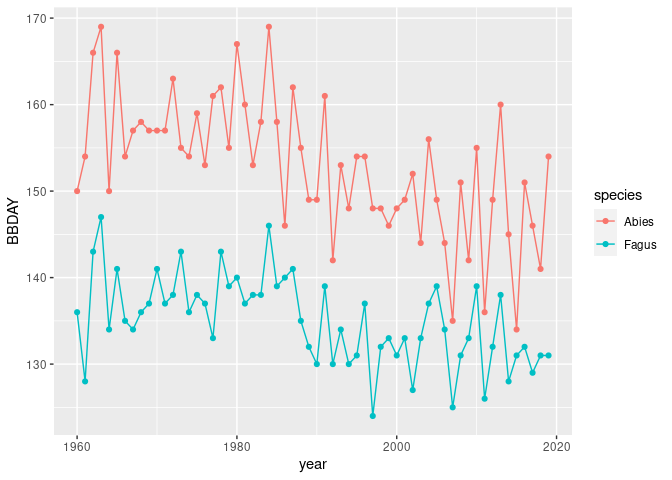
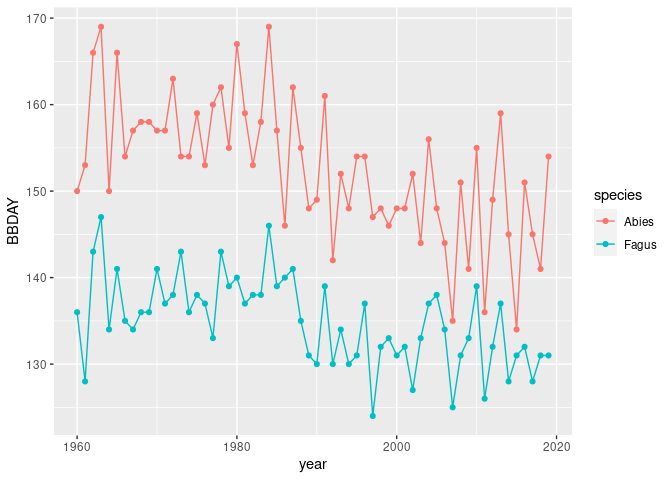
update DOY

diff --git a/README.md b/README.md
@@ -35,7 +35,8 @@ Model information
     current year *n* to simulate leaf budburst of the year *n*.
 -   `DOY`: day of the year, in the following format 1 to X, where if you
     have for example two years, X should go to 730 days. The current
-    function can not work with DOY going to 365 days only.
+    function can not work with DOY going to 365 days only. \*\*\* works
+    also with basic DOY from 1 to 365\*\*\*
 -   `meanTemp`: mean temperature for each days in T°C. For each function
     you need to specify date of the origin of your climate file.
 
@@ -71,8 +72,7 @@ We first test here unichill model for
 ``` r
 #select data for the site of interest (here named DVX5)
 dataDvx5= VtxClimate %>% filter(plot == "DVX5")
-#need to specify origin data of the data in this particular format
-originClimateData <- "1959-01-01"
+
 #need to specify submodel of unichill 
 submodelFagus <- "threshold"
 
@@ -81,7 +81,7 @@ submodelFagus <- "threshold"
 parametersFagus = c(-62, 37.3, 13, 0.08, 73.7, 13)
 
 #Run unichill model in plot DVX5 for fagus and then add plot and species name 
-phenoFagusDvx5 <-   Unichill_Chuine(parametersFagus, dataDvx5, originClimateData, submodelFagus) %>% 
+phenoFagusDvx5 <-   Unichill_Chuine(parametersFagus, dataDvx5, submodelFagus) %>% 
   mutate(species = "Fagus", site = "DVX5")
 ```
 
@@ -97,7 +97,7 @@ submodelAbies <- "unimodal"
 parametersAbies = c(-67, 9, 15.2, 0.24, 144.6, 1.61, -27.1, -4.95)
 
 #Run unichill model in plot DVX5 for Abies and add details with dplyr
-phenoAbiesDvx5 <-   Unichill_Chuine(parametersAbies, dataDvx5, originClimateData, submodelAbies) %>% 
+phenoAbiesDvx5 <-   Unichill_Chuine(parametersAbies, dataDvx5, submodelAbies) %>% 
   mutate(species = "Abies", site = "DVX5")
 ```
 
@@ -116,14 +116,12 @@ unichill model. Parameters defined here came from Gauzere et al (2017)
 ``` r
 #select data for the site of interest (here named DVX5)
 dataDvx5= VtxClimate %>% filter(plot == "DVX5")
-#need to specify origin data of the data in this particular format
-originClimateData <- "1959-01-01"
 
 #species parameter here for Fagus sylvatica
-parametersFagusUniforc = c(13, 41.3, 0.06, 12.41)
+parametersFagusUniforc = c(13, 37.3, 0.06, 12.41)
 #order : t0, Fcrit, T50, dT
 #Run unichill model in plot DVX5 for fagus and then add plot and species name 
-phenoFagusDvx5 <-   Uniforc_Chuine(parametersFagusUniforc, dataDvx5, originClimateData) %>% 
+phenoFagusDvx5Unif <-   Uniforc_Chuine(parametersFagusUniforc, dataDvx5) %>% 
   mutate(species = "Fagus", site = "DVX5")
 ```
 
